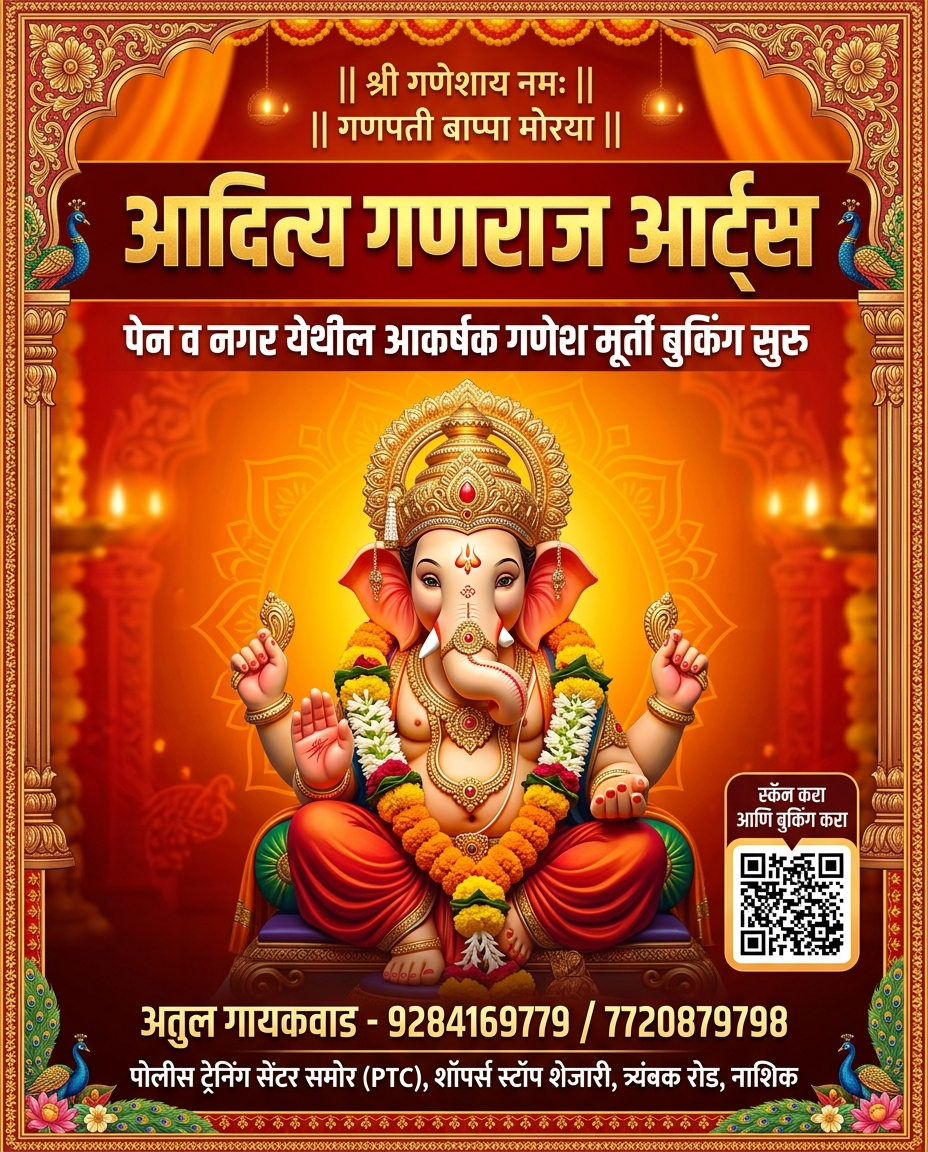
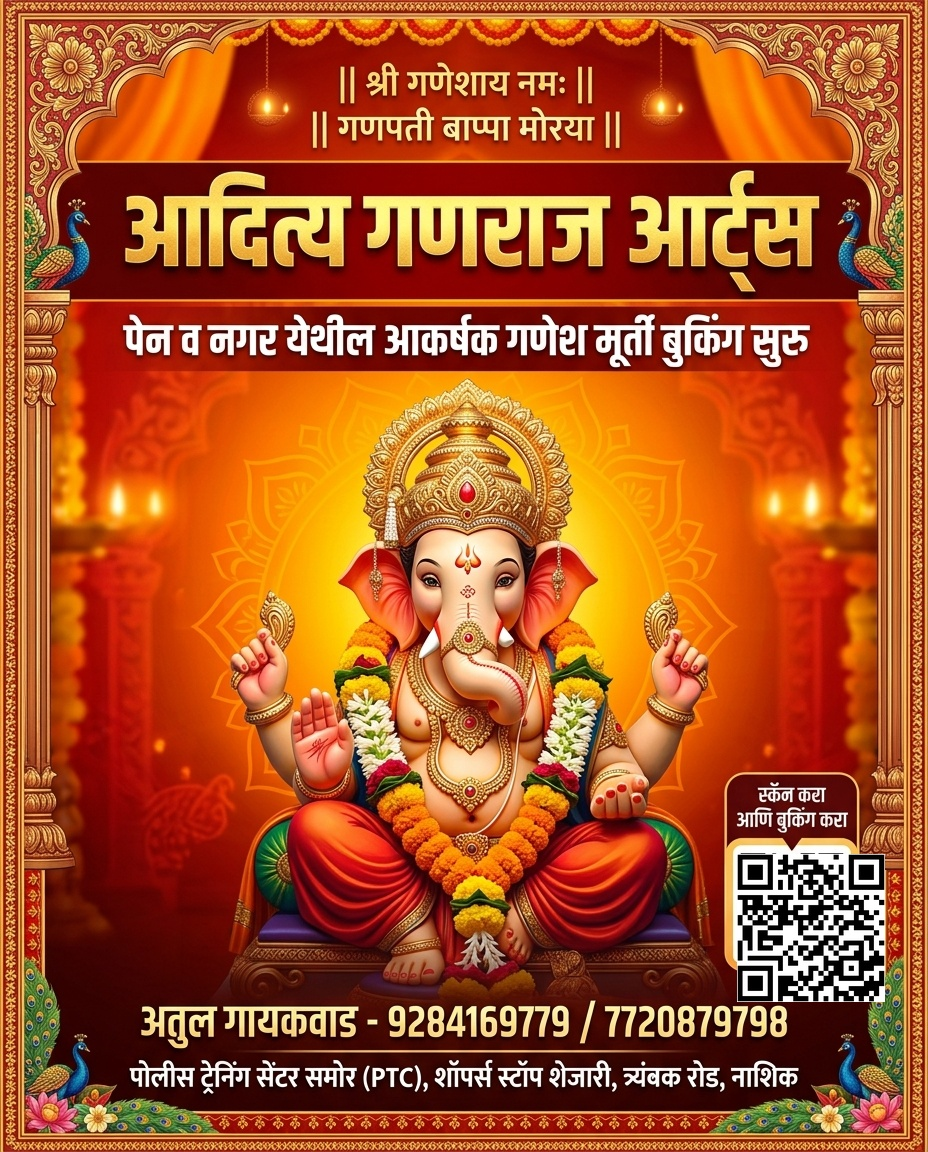
Fix scannable QR code on social media pamphlet flyer and update flyer asset

Changed region(s): [[0.7812, 0.7188, 0.9688, 0.875]]

diff --git a/src/components/SocialPamphletModal.tsx b/src/components/SocialPamphletModal.tsx
@@ -1,5 +1,5 @@
 import React from 'react';
-import { X, Printer, Share2, Download, Phone, MapPin, Sparkles } from 'lucide-react';
+import { X, Printer, Share2, Download, Phone, MapPin, Sparkles, QrCode } from 'lucide-react';
 import { Language } from '../types';
 
 interface SocialPamphletModalProps {
@@ -17,13 +17,15 @@ export const SocialPamphletModal: React.FC<SocialPamphletModalProps> = ({
     window.print();
   };
 
+  const targetWebsiteUrl = "https://adityaarts-9s44k3q9n-an-ced4.vercel.app";
+
   const whatsappMessage = encodeURIComponent(
     `🚩 *आदित्य गणराज आर्ट्स - गणपती बुकिंग सुरु!* 🚩\n\n` +
     `पेन व नगर येथील अतिशय सुबक व आकर्षक गणेश मूर्ती बुकिंगसाठी आजच भेट द्या:\n` +
     `📍 *पत्ता:* पोलीस ट्रेनिंग सेंटरच्या समोर (PTC), शॉपर्स स्टॉप शेजारी, त्र्यंबक रोड, नाशिक.\n` +
     `📞 *संपर्क:* अतुल गायकवाड (9284169779 / 7720879798)\n\n` +
     `ऑनलाईन मूर्ती पाहण्यासाठी व बुकिंग करण्यासाठी खालील लिंकवर क्लिक करा:\n` +
-    `https://adityaarts-9s44k3q9n-an-ced4.vercel.app`
+    `${targetWebsiteUrl}`
   );
 
   return (
@@ -47,7 +49,7 @@ export const SocialPamphletModal: React.FC<SocialPamphletModalProps> = ({
         {/* Printable / Shareable Poster Container */}
         <div className="p-4 overflow-y-auto space-y-4 text-amber-100 print:text-black print:p-4 print:overflow-visible">
           
-          {/* Main Visual Poster Image */}
+          {/* Main Visual Poster Image with Real QR Code */}
           <div className="relative rounded-xl overflow-hidden border-2 border-amber-500/80 shadow-2xl group print:border-none">
             <img
               src="/aditya_ganraj_arts_flyer.jpg"
@@ -56,11 +58,41 @@ export const SocialPamphletModal: React.FC<SocialPamphletModalProps> = ({
             />
           </div>
 
+          {/* Dedicated Scannable QR Code Box */}
+          <div className="bg-amber-900/60 p-3.5 rounded-xl border border-amber-500/40 flex items-center justify-between gap-3 text-xs print:bg-gray-100">
+            <div className="space-y-1">
+              <span className="text-yellow-300 font-extrabold flex items-center gap-1 text-xs">
+                <QrCode className="w-4 h-4 text-amber-400" />
+                <span>{isMr ? 'ऑनलाईन बुकिंग QR कोड (१००% स्कॅन चालू):' : 'Scannable Website Booking QR Code:'}</span>
+              </span>
+              <p className="text-[11px] text-amber-200/90 leading-tight">
+                {isMr ? 'कॅमेऱ्याने स्कॅन करून ऑनलाईन ७३ मूर्ती पहा व बुक करा:' : 'Scan with mobile camera to view 73 idols & book:'}
+              </p>
+              <a
+                href={targetWebsiteUrl}
+                target="_blank"
+                rel="noopener noreferrer"
+                className="text-[10px] text-yellow-300 hover:underline font-mono block font-bold truncate"
+              >
+                {targetWebsiteUrl}
+              </a>
+            </div>
+
+            <div className="bg-white p-1.5 rounded-lg border-2 border-amber-400 shrink-0 text-center shadow-md">
+              <img
+                src={`https://api.qrserver.com/v1/create-qr-code/?size=150x150&margin=1&data=${encodeURIComponent(targetWebsiteUrl)}`}
+                alt="100% Scannable Website QR Code"
+                className="w-20 h-20 object-contain"
+              />
+              <span className="text-[8px] text-gray-900 font-extrabold block mt-0.5">SCAN TO BOOK</span>
+            </div>
+          </div>
+
           {/* Quick Caption Box */}
-          <div className="bg-amber-900/40 p-3 rounded-xl border border-amber-700/40 text-xs space-y-1 print:hidden">
+          <div className="bg-amber-900/30 p-3 rounded-xl border border-amber-700/40 text-xs space-y-1 print:hidden">
             <span className="text-[10px] text-amber-400 font-bold uppercase">{isMr ? 'सोशल मीडिया कॅप्शन (WhatsApp/Instagram Text):' : 'Social Media Caption:'}</span>
             <p className="text-amber-200/90 leading-relaxed font-mono text-[11px]">
-              🚩 आदित्य गणराज आर्ट्स - पेन व नगर येथील सुबक गणेश मूर्ती ऑनलाईन बुकिंग सुरु! 📞 अतुल गायकवाड: 9284169779 / 7720879798 📍 नाशिक त्र्यंबक रोड
+              🚩 आदित्य गणराज आर्ट्स - पेन व नगर येथील सुबक गणेश मूर्ती ऑनलाईन बुकिंग सुरु! 📞 अतुल गायकवाड: 9284169779 / 7720879798 📍 नाशिक त्र्यंबक रोड {targetWebsiteUrl}
             </p>
           </div>
 
